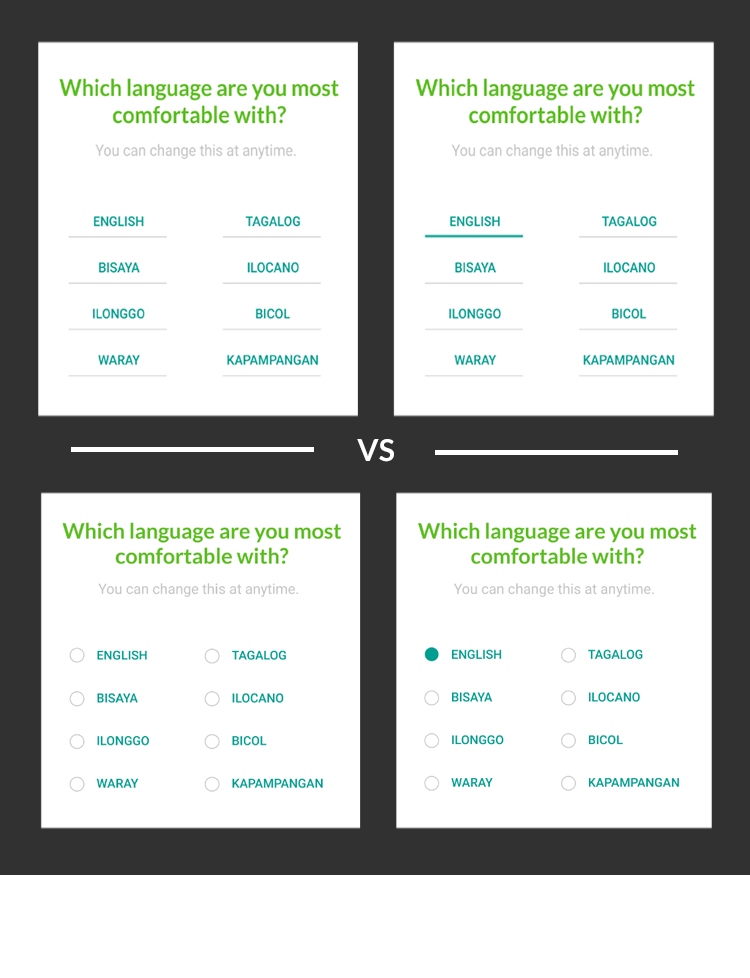
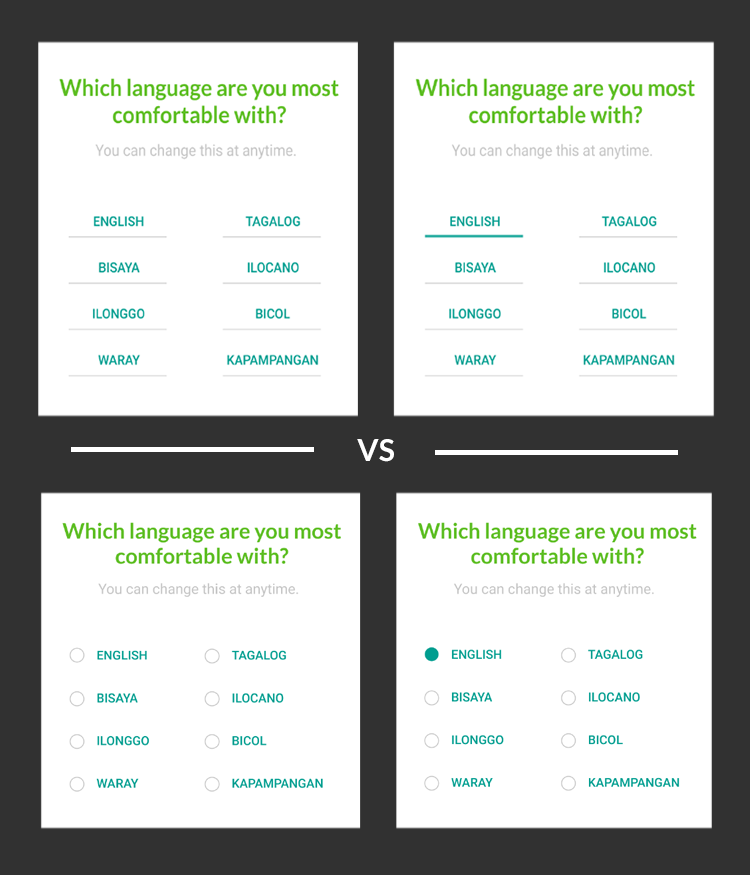
Filo: Turned all text-based images to text.

diff --git a/filo.html b/filo.html
@@ -125,7 +125,7 @@
 <!-- Mobile Tasks + Tools -->
 
     <div class="row mobile_row">
-      <div class="three columns subsection mobile_resptools" style="background-color:#303030">
+      <div class="three columns subsection mobile_tasks" style="background-color:#303030">
         <div class="subcontainer">
           <div class="container" style="margin-top:10%">
           <h5 style="background:transparent"> Tasks</h5>
@@ -134,7 +134,7 @@
         </div>
       </div>
 
-      <div class="three columns subsection mobile_resptools" style="background-color:#303030">
+      <div class="three columns subsection mobile_tasks" style="background-color:#303030">
         <div class="subcontainer">
           <div class="container" style="margin-top:10%">
           <h5 style="background:transparent">Tools</h5><p>SoGoSurvey<br>Draw.io<br>Figma<br>Illustrator<br>Photoshop<br>Invision<br>Maze<br>UsabilityHub<br>Skype<br>Zoom</p>
@@ -151,7 +151,7 @@
 
       <div class="six columns" style="margin-top: 5%">
         <h4>The Challenge</h4>
-        <p>Despite bringing in $32 billion worth of remittances in 2018 alone and despite being 1/10th of the countries total population, there is no app yet that is specifically designed to serve the 10 million Filipinos overseas in managing their personal finances.
+        <p>Despite bringing in $32 billion worth of remittances in 2018 alone and despite being 1/10th of the country's total population, there is no app yet that is specifically designed to serve the 10 million Filipinos overseas in managing their personal finances.
         </p>
       </div>
 
@@ -194,8 +194,49 @@
   <div class="container">
     <div class="row">
       <!-- Image first Column  -->
-      <div class="six columns subsection project-img"><img src="images/govt_data-v2.png" class="showcase-img">
+      <div class="six columns subsection project-img text_image light">
+        <!-- <img src="images/govt_data-v2.png" class="showcase-img"> -->
+        <!-- <div class="six columns mobgrid">
+        <h4 class="green">USA</h4>
+        <p>has the biggest population of permanent Filipino immigrants at 3.4 M</p>
+        </div>
+
+        <div class="six nomargincol mobgrid">
+        <h4 class="green">Middle East</h4>
+        <p>has the highest concentration of temporary immigrants of almost 1 M</p>
+        </div>
+
+        <div class="six columns nomargincol mobgrid">
+        <h4 class="green">>70%</h4>
+        <p>Of Overseas Filipino Workers (OFWs) are 25-44 y/o</p>
+        </div>
+
+        <div class="six mobgrid">
+        <h4 class="green">4</h4>
+        <p>Major regions in the Philippines where most OFWs are originally from</p>
+        </div> -->
+        <div class="six columns mobgrid">
+          <h4 class="green">USA</h4>
+          <p>has the biggest population of permanent Filipino immigrants at 3.4&nbsp;million</p>
+        </div>
+
+        <div class="six nomargincol mobgrid">
+        <h4 class="green">Middle East</h4>
+        <p>has the highest concentration of temporary Filipino immigrants at 1&nbsp;million</p>
+        </div>
+
+        <div class="six columns nomargincol mobgrid">
+          <h4 class="green">>70%</h4>
+          <p>Of Overseas Filipino Workers (OFWs) are 25-&nbsp;44 y/o</p>
+        </div>
+
+        <div class="six mobgrid">
+          <h4 class="green">4</h4>
+          <p>Major regions in the Philippines where most OFWs are originally from</p>
+        </div>
+
       </div>
+
 
       <!-- Text first Column  -->
       <div class="six columns subsection">
@@ -224,7 +265,28 @@
       </div>
 
       <!-- Image 2nd Column  -->
-      <div class="six columns subsection"><img src="images/survey_result-v2.png" class="showcase-img">
+      <div class="six columns subsection text_image light">
+        <!-- <img src="images/survey_result-v2.png" class="showcase-img"> -->
+        <div class="six columns mobgrid">
+        <h4 class="green">100%</h4>
+        <p>Use their smartphones to management their finances in some way</p>
+        </div>
+
+        <div class="six nomargincol mobgrid">
+        <h4 class="green">83%</h4>
+        <p>Have never used a comprehensive personal financial management app ever</p>
+        </div>
+
+        <div class="six columns nomargincol mobgrid">
+        <h4 class="green">83%</h4>
+        <p>Have savings/checking accounts in both the Philippines and their current country of residence</p>
+        </div>
+
+        <div class="six mobgrid">
+        <h4 class="green">67%</h4>
+        <p>Are maintaining pension plans in the Philippines only</p>
+        </div>
+
       </div>
 
     </div>
@@ -234,7 +296,26 @@
   <div class="container">
     <div class="row">
       <!-- Image 1st Column  -->
-      <div class="six columns subsection project-img"><img src="images/survey_result2-v2.png" class="showcase-img">
+      <div class="six columns subsection project-img text_image light">
+        <!-- <img src="images/survey_result2-v2.png" class="showcase-img"> -->
+
+        <!-- Top Financial Goals -->
+        <h6 class="green">Top Financial Goals</h6>
+
+        <ul>
+          <li>Personal financial stability</li>
+          <li>Support parents and siblings needs</li>
+          <li>Provide for spouse and children</li>
+        </ul>
+
+        <!-- Top Financial Challenges -->
+        <h6 class="green">Top Financial Challenges</h6>
+
+        <ul>
+          <li>Lack of financial education</li>
+          <li>Lack of discipline to save</li>
+          <li>Mismanagement of time</li>
+        </ul>
       </div>
 
       <!-- Text 2nd Column  -->
@@ -261,7 +342,41 @@
       </div>
 
       <!-- Image 2nd Column  -->
-      <div class="six columns subsection"><img src="images/survey_result3-v2.png" class="showcase-img">
+      <div class="six columns subsection text_image light">
+        <!-- <img src="images/survey_result3-v1.png" class="showcase-img laptop"> -->
+
+          <!-- Top Financial Goals -->
+        <div class="six columns mobgrid">
+          <h6 class="green">Most frequently used financial management tool</h6>
+
+          <ul class="nobullet">
+            <li>Pen and paper</li>
+            <li>Currency converter</li>
+            <li>Online banking apps</li>
+          </ul>
+        </div>
+
+          <!-- Top usage for the current tools they have -->
+        <div class="six columns nomargincol mobgrid">
+          <h6 class="green">Top usage for the current tools they have</h6>
+
+          <ul>
+            <li>Lack of financial education</li>
+            <li>Lack of discipline to save</li>
+            <li>Mismanagement of time</li>
+          </ul>
+        </div>
+
+        <div class="six columns nomargincol mobgrid laptop">
+          <h6 class="green">Top usage for the current tools they have</h6>
+
+          <ul>
+            <li>Lack of financial education</li>
+            <li>Lack of discipline to save</li>
+            <li>Mismanagement of time</li>
+          </ul>
+        </div>
+
       </div>
 
     </div>
@@ -393,7 +508,7 @@
         <li>Set my currencies</li>
         <li>Add or link my financial accounts</li>
         <li>Create a budget</li>
-      </ul>
+        </ul>
 
       <!-- Returning User -->
       <!-- <div class="text_image dark"> -->

diff --git a/css/skeleton.css b/css/skeleton.css
@@ -707,7 +707,7 @@ text-align: center;
 
 .text_image {
   text-align: left;
-    padding: 10px 10px;
+  padding: 10px 10px;
 }
 
 .light{
@@ -720,28 +720,39 @@ text-align: center;
 
 .text_image h6{
   font-weight: bold;
+  margin: auto 60px;
 }
 
-.text_image ul{
-  mar
-}
 
 .text_image li {
   text-decoration: none;
   list-style: square inside;
   display: list-item;
-  margin: 0px;
+  margin: 2px 2px 0px 100px;
   font-size: 80%;
   line-height: 1.5em;
   padding-left: 2px;
   /*margin-left: 50px;*/
 }
 
+.nomargincol {
+  /*background-color: red;*/
+ margin: 0;
+}
 
+.mobgrid {
+  display: grid;
+  max-width: 47%;
+  margin-right: 3%;
+}
 
+.mobgrid li, .mobgrid h6{
+  margin: 0;
+}
 
-
-
+.mobgrid p{
+  font-size: 80%;
+}
 
 
 
@@ -929,7 +940,7 @@ there.
     align-items: center;
   }
 
-  .laptop {
+  .laptop, .mobgrid.laptop {
     display: none;
   }
 
@@ -979,20 +990,20 @@ there.
     padding-top: 0px;
   }
 
-  .mobile_resptools{
+  .mobile_tasks{
     width: 46%;
     margin: 2%;
   }
 
-  .mobile_resptools h5{
+  .mobile_tasks h5{
     font-weight: bold;
   }
 
-  .mobile_resptools h5{
+  .mobile_tasks h5{
     text-align: left;
   }
 
-  .mobile_resptools p{
+  .mobile_tasks p{
     text-align: left;
   }
 
@@ -1057,7 +1068,7 @@ there.
     margin-left: -5px;
   }
 
-  .mobile_resptools.container{
+  .mobile_tasks.container{
     /*margin-top: 25px;*/
     padding: 20px 5px;
   }
@@ -1065,8 +1076,24 @@ there.
   .subcontainer2 {
     padding: 0px;
   }
-}
 
+  .mobgrid {
+    display: grid;
+    max-width: 47%;
+    margin-right: 3%;
+  }
+
+  .text_image h6{
+    margin-bottom: 15px;
+    margin-left: 0px;
+  }
+
+  .text_image li {
+    margin-left: 15px;
+    list-style: square;
+  }
+
+}
 
 /* Larger than phablet (also point when grid becomes active) */
 @media (min-width: 550px) {}

diff --git a/about.html b/about.html
@@ -52,7 +52,7 @@
 <div class="hero">
   <div class="container">
     <div class="twelve columns, centered-text">
-      <h1>My</span>&nbsp;<span style="color:#FBC02D">UX Design </span>Journey</span></h1>
+      <h1>My <span style="color:#FBC02D">UX Design </span>Journey</span></h1>
       <h5>The roadblocks, detours and destination.</h5>
       <img src="images/headshot01-border.png" class="about-img">
     </div>
@@ -148,7 +148,7 @@
     <div class="row">
       <div class="six columns" style="margin-top: 5%">
         <h4 class="right">2009 - 2012</h4>
-        <p>Went back to nursing. Worked in the <span class="yellow">Middle East.  </span>When I was there, <span class="red">my employer abused me </span>& held on to my passport so I couldn’t come home for my boyfriend’s <span class="red">death.</span> I fought for my rights and eventually went back to the Philippines to start a new. I decided that from then on, <span class="yellow">I’m going to follow where my heart leads me.</span>
+        <p>Went back to nursing. Worked in the <span class="yellow">Middle East.  </span>When I was there, <span class="red">my employer abused me </span>& held on to my passport so I couldn’t come home for a loved one's <span class="red">death.</span> I fought for my rights and eventually went back to the Philippines to start a new. I decided that from then on, <span class="yellow">I’m going to follow where my heart leads me.</span>
         <br>
         <br>
         <span class="underline">UX Skills acquired:

diff --git a/index.html b/index.html
@@ -53,7 +53,7 @@
 <div class="hero">
   <div class="container">
     <div class="twelve columns, centered-text">
-      <h1>Hi, I'm</span>&nbsp;<span style="color:#FBC02D">Chickee!</span></h1>
+      <h1>Hi, I'm&nbsp;<span style="color:#FBC02D">Chickee!</span></h1>
       <h5>UX Designer who wants to design and build products that aim to solve the needs of humanity, not just the next big selfie app.</h5>
       <h5><i class="fas fa-map-marker-alt"></span>&nbsp;</i>Seattle</h5>
       <a href="contact.html" class="button">Contact Me</a><br><br>
